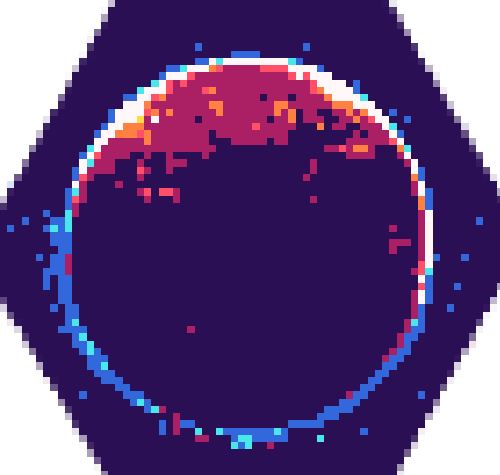
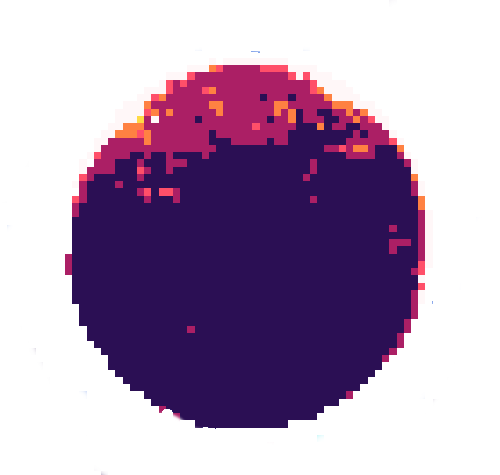
added different features

diff --git a/app/components/Hex.tsx b/app/components/Hex.tsx
@@ -4,11 +4,11 @@ interface Props {
   color: string;
   radius: number;
   children?: ReactNode;
-  imageUrl?: string; // Add an imageUrl prop
+  image?: JSX.Element;
   anomaly?: boolean;
 }
 
-export function Hex({ color, radius, children, imageUrl, anomaly }: Props) {
+export function Hex({ color, radius, children, image, anomaly }: Props) {
   const points = Array.from({ length: 6 }).map((_, i) => {
     const angle = (i * Math.PI) / 3;
     return { x: radius * Math.cos(angle), y: radius * Math.sin(angle) };
@@ -30,17 +30,7 @@ export function Hex({ color, radius, children, imageUrl, anomaly }: Props) {
               <polygon points={pointsString} />
             </clipPath>
           </defs>
-          <g clipPath="url(#hexClip)">
-            {imageUrl && (
-              <image
-                href={imageUrl}
-                x={-radius * 1.25}
-                y={-radius * 1.25}
-                width={2 * radius * 1.25}
-                height={2 * radius * 1.25}
-              />
-            )}
-          </g>
+          <g clipPath="url(#hexClip)">{image}</g>
 
           {anomaly && <Anomaly radius={radius} points={points} />}
         </svg>
@@ -89,8 +79,8 @@ function Anomaly({
           strokeWidth={(radius / 20).toString()}
         />
       ))}
-      {points.map((p) => (
-        <circle cx={p.x} cy={p.y} r={radius / 40} fill="red" />
+      {points.map((p, idx) => (
+        <circle key={idx} cx={p.x} cy={p.y} r={radius / 40} fill="red" />
       ))}
     </>
   );

diff --git a/app/components/Planet.tsx b/app/components/Planet.tsx
@@ -1,5 +1,7 @@
 import { Box, Flex, Group, Text } from "@mantine/core";
 import { Planet as PlanetType, PlanetTrait, TechSpecialty } from "~/types";
+import { PlanetName } from "./PlanetName";
+import { PlanetStats } from "./PlanetStats";
 
 export type PlanetFormat =
   | "STREAMLINED"
@@ -45,28 +47,13 @@ export function Planet({ planet, showName = true, largeFonts = false }: Props) {
       justify="center"
       pos="relative"
     >
-      <Group gap={3}>
-        <Text size={fontSize} fw="bolder" style={{ color: "yellow" }} lh={0}>
-          {planet.resources}
-        </Text>
-        <Text size={fontSize} c="blue.9" fw="bolder" lh={0}>
-          {planet.influence}
-        </Text>
-      </Group>
-      {showName && (
-        <Box
-          pos="absolute"
-          top={50 - 10}
-          right={0}
-          left={0}
-          bg="rgba(0, 0, 0, 0.7)"
-          p={2}
-        >
-          <Text size="10" c="white" fw="bolder" ta="center" lh={0.9}>
-            {planet.name}
-          </Text>
-        </Box>
-      )}
+      <PlanetStats
+        resources={planet.resources}
+        influence={planet.influence}
+        fontSize={fontSize}
+      />
+
+      {showName && <PlanetName>{planet.name}</PlanetName>}
       {techSpecialty && (
         <Box pos="absolute" top={-6} right={-2}>
           <img

diff --git a/app/components/tiles/SystemTile.tsx b/app/components/tiles/SystemTile.tsx
@@ -4,6 +4,9 @@ import { MapContext } from "../MapContext";
 import { Planet } from "../Planet";
 import { SystemTile as SystemTileType } from "~/types";
 import { Group, useMantineTheme } from "@mantine/core";
+import { Nebula } from "../features/Nebula";
+import { Supernova } from "../features/Supernova";
+import { Asteroids } from "../features/Asteroids";
 // import { Text } from "tamagui";
 
 type Props = { tile: SystemTileType };
@@ -23,16 +26,24 @@ export function SystemTile({ tile }: Props) {
   }
   scale = scale.toString();
 
-  const hasNebula = tile.system.anomaly === "NEBULA";
+  let image;
+  if (tile.system.anomaly === "NEBULA") {
+    image = <Nebula radius={radius} />;
+  }
+  if (tile.system.anomaly === "SUPERNOVA") {
+    image = <Supernova radius={radius} />;
+  }
+  if (tile.system.anomaly === "ASTEROID_FIELD") {
+    image = <Asteroids radius={radius} />;
+  }
 
   return (
     <Hex
       radius={radius}
-      color="#576d9f"
-      imageUrl={hasNebula ? "/nebula.webp" : undefined}
+      color="#475e93"
+      image={image}
       anomaly={!!tile.system.anomaly}
     >
-      {/* <div className="id">{system.id}</div> */}
       <Group gap={2} justify="center" style={{ scale, minWidth: 102 }}>
         {system.planets.map((planet) => (
           <Planet

diff --git a/app/components/tiles/MecatolTile.tsx b/app/components/tiles/MecatolTile.tsx
@@ -1,0 +1,39 @@
+import { useContext } from "react";
+import { Hex } from "../Hex";
+import { MapContext } from "../MapContext";
+import { Planet } from "../Planet";
+import { SystemTile as SystemTileType } from "~/types";
+import { Box, Flex, Group } from "@mantine/core";
+import { MecatolPlanet } from "../features/MecatolPlanet";
+import { PlanetName } from "../PlanetName";
+import { PlanetStats } from "../PlanetStats";
+
+type Props = { tile: SystemTileType };
+
+export function MecatolTile({ tile }: Props) {
+  const system = tile.system;
+  const { radius } = useContext(MapContext);
+
+  // 70 is where 3 planets at 50px each no longer fit.
+  // so we start scaling down.
+  let scale = Math.min(1, radius / 70);
+  if (radius > 80) {
+    scale = radius / 80;
+  }
+  scale = scale.toString();
+
+  return (
+    <Hex
+      radius={radius}
+      color="#475e93"
+      image={<MecatolPlanet radius={radius} />}
+    >
+      <Box w="75" pos="relative" style={{ scale }}>
+        <Flex align="center" justify="center" bg="green">
+          <PlanetStats resources={1} influence={6} />
+        </Flex>
+        <PlanetName>Mecatol Rex</PlanetName>
+      </Box>
+    </Hex>
+  );
+}

diff --git a/app/components/MapTile.tsx b/app/components/MapTile.tsx
@@ -1,14 +1,16 @@
-import { Tile } from "~/types";
+import { SystemTile as SystemTileType, Tile } from "~/types";
 import { SystemTile } from "./tiles/SystemTile";
 import { EmptyTile } from "./tiles/EmptyTile";
 import { ReactNode, useContext } from "react";
 import { MapContext } from "./MapContext";
 import { getHexPosition } from "~/utils/positioning";
+import { MecatolTile } from "./tiles/MecatolTile";
 
 type Props = {
   tile: Tile;
 };
 
+const MECATOL_REX_ID = 18;
 export function MapTile(props: Props) {
   const {
     tile,
@@ -25,6 +27,9 @@ export function MapTile(props: Props) {
     default:
       Tile = <EmptyTile {...props} />;
       break;
+  }
+  if (tile.system?.id === MECATOL_REX_ID) {
+    Tile = <MecatolTile {...props} tile={tile as SystemTileType} />;
   }
 
   return (

diff --git a/app/routes/_index.tsx b/app/routes/_index.tsx
@@ -17,7 +17,7 @@ export const meta: MetaFunction = () => {
 const startingMap = loadMapFromLayout(defaultLayouts[0].data);
 
 const mapString =
-  "30 40 37 61 62 68 64 42 75 49 65 25 44 66 36 28 47 19 0 24 39 0 79 33 0 32 46 0 74 23 0 35 26 0 38 73".split(
+  "30 43 37 61 62 68 64 42 75 49 65 25 44 66 36 28 47 19 0 24 39 0 79 33 0 32 46 0 74 23 0 35 26 0 38 73".split(
     " ",
   );
 
@@ -49,7 +49,18 @@ const tiles = mapString
 
     return tile;
   });
-const map = { tiles };
+
+const mecatolTile: Tile = {
+  position: { x: 0, y: 0, z: 0 },
+  type: "SYSTEM",
+  system: {
+    id: 18,
+    planets: planetData.filter((planet) => planet.name === "Mecatol Rex"),
+  },
+};
+const map = {
+  tiles: [mecatolTile, ...tiles],
+};
 
 export default function Index() {
   return (

diff --git a/app/components/PlanetStats.tsx b/app/components/PlanetStats.tsx
@@ -1,0 +1,20 @@
+import { Group, Text } from "@mantine/core";
+
+type Props = {
+  resources: number;
+  influence: number;
+  fontSize?: string;
+};
+
+export function PlanetStats({ resources, influence, fontSize = "25" }: Props) {
+  return (
+    <Group gap={3}>
+      <Text size={fontSize} fw="bolder" style={{ color: "yellow" }} lh={0}>
+        {resources}
+      </Text>
+      <Text size={fontSize} c="blue.9" fw="bolder" lh={0}>
+        {influence}
+      </Text>
+    </Group>
+  );
+}

diff --git a/app/components/PlanetName.tsx b/app/components/PlanetName.tsx
@@ -1,0 +1,22 @@
+import { Box, Text } from "@mantine/core";
+
+type Props = {
+  children: string;
+};
+
+export function PlanetName({ children }: Props) {
+  return (
+    <Box
+      pos="absolute"
+      top={50 - 10}
+      right={0}
+      left={0}
+      bg="rgba(0, 0, 0, 0.7)"
+      p={2}
+    >
+      <Text size="10" c="white" fw="bolder" ta="center" lh={0.9}>
+        {children}
+      </Text>
+    </Box>
+  );
+}

diff --git a/app/components/features/Nebula.tsx b/app/components/features/Nebula.tsx
@@ -1,0 +1,11 @@
+export function Nebula({ radius }: { radius: number }) {
+  return (
+    <image
+      href="/nebula.webp"
+      x={-radius * 1.25}
+      y={-radius * 1.25}
+      width={2 * radius * 1.25}
+      height={2 * radius * 1.25}
+    />
+  );
+}

diff --git a/app/components/features/MecatolPlanet.tsx b/app/components/features/MecatolPlanet.tsx
@@ -1,0 +1,11 @@
+export function MecatolPlanet({ radius }: { radius: number }) {
+  return (
+    <image
+      href="/mecatol.png"
+      x={-radius * 0.75}
+      y={-radius * 0.75}
+      width={1.5 * radius}
+      height={1.5 * radius}
+    />
+  );
+}

diff --git a/app/components/features/Asteroids.tsx b/app/components/features/Asteroids.tsx
@@ -1,0 +1,11 @@
+export function Asteroids({ radius }: { radius: number }) {
+  return (
+    <image
+      href="/asteroids.webp"
+      x={-radius * 1}
+      y={-radius * 1}
+      width={2 * radius * 1}
+      height={2 * radius * 1}
+    />
+  );
+}

diff --git a/app/components/features/Supernova.tsx b/app/components/features/Supernova.tsx
@@ -1,0 +1,11 @@
+export function Supernova({ radius }: { radius: number }) {
+  return (
+    <image
+      href="/supernova.webp"
+      x={-radius * 1}
+      y={-radius * 1}
+      width={2 * radius * 1}
+      height={2 * radius * 1}
+    />
+  );
+}
